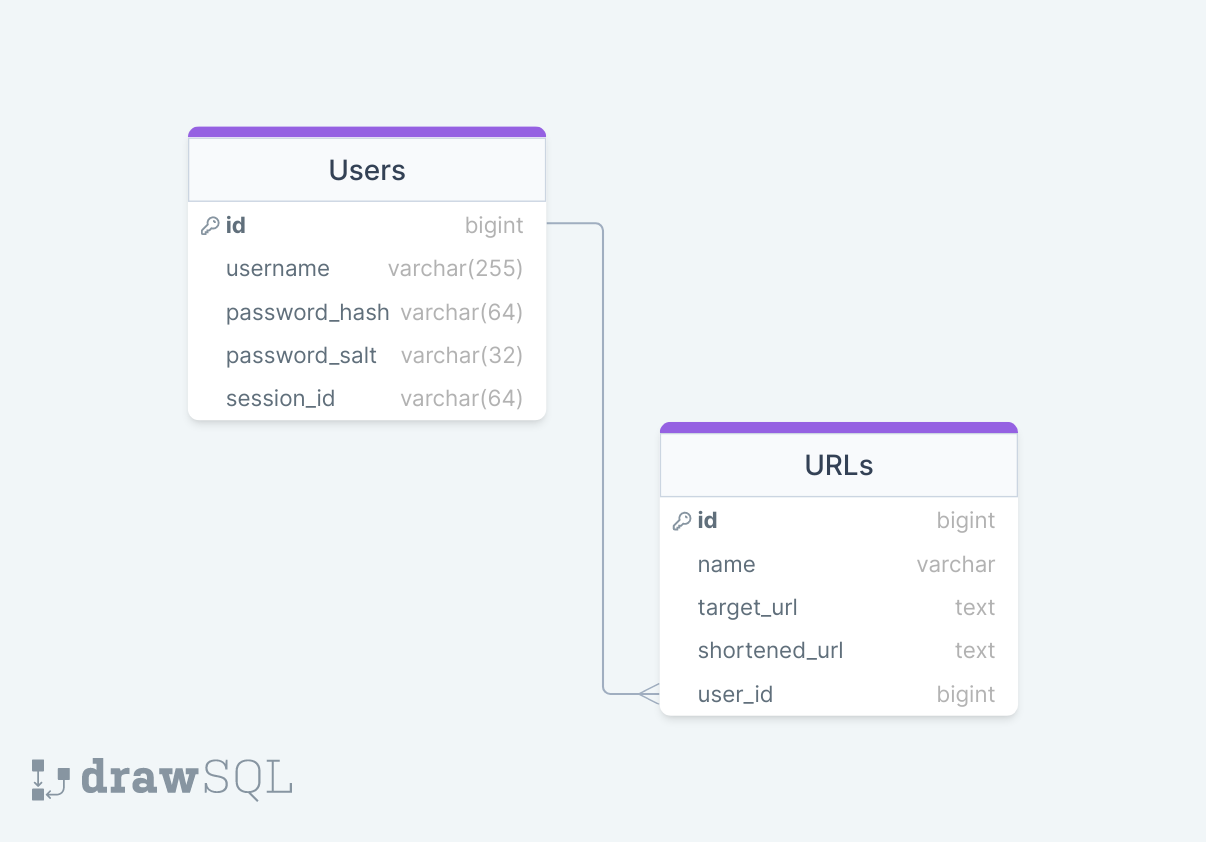
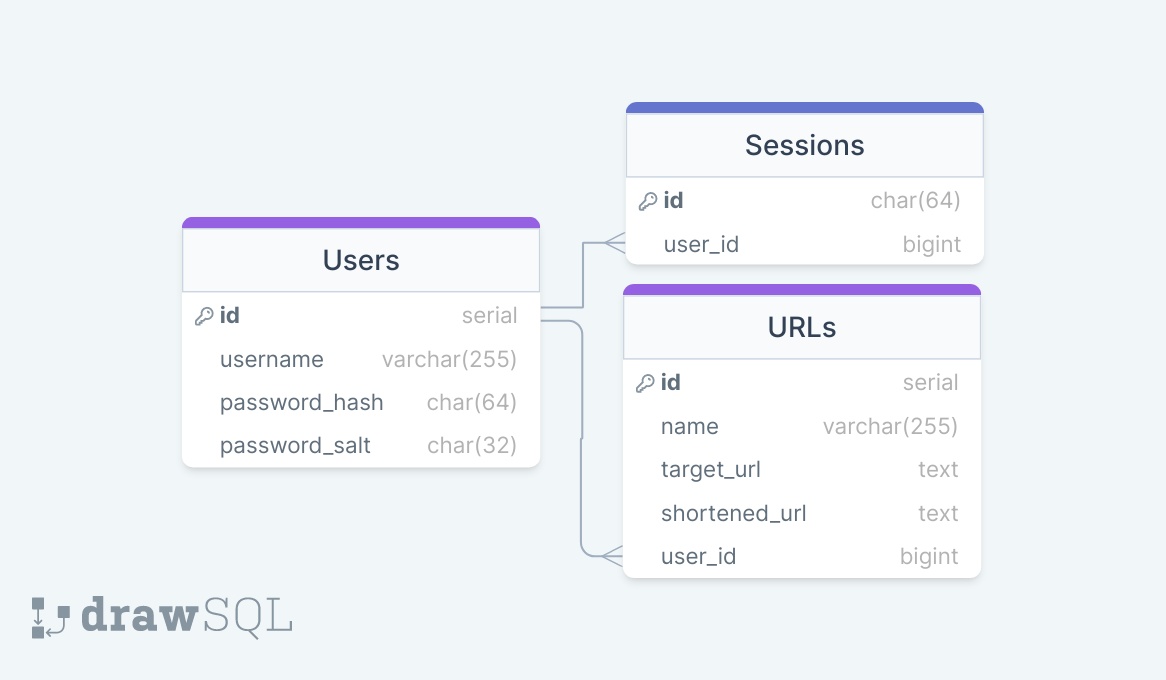
Users can now have multiple sessions at once.

diff --git a/src/routes.js b/src/routes.js
@@ -47,6 +47,10 @@ const registerUser = async (req, res) => {
     // Inserts the user data into the database'
     query_options = [req.body.username, password_hash, salt]
     database_response = await database_client.query("INSERT INTO users (username, password_hash, password_salt) VALUES ($1, $2, $3) RETURNING *;", query_options)
+    if (database_response.rowCount === 0) {
+        sendBadRequest(req, res, "Unable to register account.")
+        return
+    }
 
     // Logs the new user in
     loginUser(req, res)
@@ -80,9 +84,22 @@ const loginUser = async (req, res) => {
         session_id += Math.round(Math.random() * 255).toString(16).padStart(2, "0")
     }
 
+    // Get's the user's id
+    query_options = [req.body.username]
+    database_response = await database_client.query("SELECT id FROM users WHERE username = $1;", query_options)
+    if (database_response.rowCount === 0) {
+        sendBadRequest(req, res, "Credentials are invalid.")
+        return
+    }
+    const user_id = database_response.rows[0].id
+
     // Updates the user's session id in the database
-    query_options = [session_id, req.body.username]
-    database_response = await database_client.query("UPDATE users SET session_id = $1 WHERE username = $2 RETURNING *;", query_options)
+    query_options = [session_id, user_id]
+    database_response = await database_client.query("INSERT INTO sessions (id, user_id) VALUES ($1, $2) RETURNING *;", query_options)
+    if (database_response.rowCount === 0) {
+        sendBadRequest(req, res, "Unable to create session.")
+        return
+    }
 
     // Sets the cookie to be the session id
     const cookie_options = {
@@ -92,8 +109,8 @@ const loginUser = async (req, res) => {
     }
     res.cookie("session_id", session_id, cookie_options)
 
-    // Sends nothing right now
-    res.json([])
+    // Sends success
+    res.json({ message: "Success" })
 }
 
 // Whenever this route is called, logs out a user
@@ -105,18 +122,9 @@ const logoutUser = async (req, res) => {
         return
     }
 
-    // Get's the current user's id
-    let query_options = [req.cookies.session_id]
-    let database_response = await database_client.query("SELECT id FROM users WHERE session_id = $1;", query_options)
-    if (database_response.rowCount === 0) {
-        sendBadRequest(req, res, "Invalid session id.")
-        return
-    }
-    const user_id = database_response.rows[0].id
-
     // Removes the user's session id
-    query_options = [user_id]
-    database_response = await database_client.query("UPDATE users SET session_id = null WHERE id = $1;", query_options)
+    query_options = [req.cookies.session_id]
+    database_response = await database_client.query("DELETE FROM sessions WHERE id = $1;", query_options)
 
     // Clears the session id cookie
     res.clearCookie("session_id")
@@ -136,12 +144,12 @@ const createShortenedURL = async (req, res) => {
 
     // Get's the current user's id
     let query_options = [req.cookies.session_id]
-    let database_response = await database_client.query("SELECT id FROM users WHERE session_id = $1;", query_options)
+    let database_response = await database_client.query("SELECT user_id FROM sessions WHERE id = $1;", query_options)
     if (database_response.rowCount === 0) {
         sendBadRequest(req, res, "Invalid session id.")
         return
     }
-    const user_id = database_response.rows[0].id
+    const user_id = database_response.rows[0].user_id
 
     // Generates the shortened URL
     database_response = await database_client.query("SELECT TO_HEX(nextval('shortened_url_sequence'));")
@@ -183,12 +191,12 @@ const readURLs = async (req, res) => {
 
     // Get's the current user's id
     let query_options = [req.cookies.session_id]
-    let database_response = await database_client.query("SELECT id FROM users WHERE session_id = $1;", query_options)
+    let database_response = await database_client.query("SELECT user_id FROM sessions WHERE id = $1;", query_options)
     if (database_response.rowCount === 0) {
         sendBadRequest(req, res, "Invalid session id.")
         return
     }
-    const user_id = database_response.rows[0].id
+    const user_id = database_response.rows[0].user_id
 
     // Performs the query and returns the results to the client
     query_options = [user_id]
@@ -207,12 +215,12 @@ const readURL = async (req, res) => {
 
     // Get's the current user's id
     let query_options = [req.cookies.session_id]
-    let database_response = await database_client.query("SELECT id FROM users WHERE session_id = $1;", query_options)
+    let database_response = await database_client.query("SELECT user_id FROM sessions WHERE id = $1;", query_options)
     if (database_response.rowCount === 0) {
         sendBadRequest(req, res, "Invalid session id.")
         return
     }
-    const user_id = database_response.rows[0].id
+    const user_id = database_response.rows[0].user_id
 
     // Verifies the id is a valid integer
     const idIntegerValue = parseInt(req.params.id)
@@ -223,8 +231,8 @@ const readURL = async (req, res) => {
     req.params.id = idIntegerValue
 
     // Performs the query and returns the results to the client
-    query_options = [req.params.id, user_id]
-    database_response = await database_client.query("SELECT * FROM urls WHERE id = $1 AND user_id = $2;", query_options)
+    query_options = [req.params.id]
+    database_response = await database_client.query("SELECT * FROM urls WHERE id = $1;", query_options)
     res.json(database_response.rows)
 }
 
@@ -239,18 +247,18 @@ const updateURL = async (req, res) => {
 
     // Get's the current user's id
     let query_options = [req.cookies.session_id]
-    let database_response = await database_client.query("SELECT id FROM users WHERE session_id = $1;", query_options)
+    let database_response = await database_client.query("SELECT user_id FROM sessions WHERE id = $1;", query_options)
     if (database_response.rowCount === 0) {
         sendBadRequest(req, res, "Invalid session id.")
         return
     }
-    const user_id = database_response.rows[0].id
+    const user_id = database_response.rows[0].user_id
 
     // Verifies the id is a valid integer
     if (typeof req.body.id !== "number") {
         const idIntegerValue = parseInt(req.body.id)
         if (isNaN(idIntegerValue) || idIntegerValue + "" !== req.body.id) {
-            sendBadRequest(req, res, "Non-integer value passed as id. -> " + typeof req.body.id + " -> " + req.body.id)
+            sendBadRequest(req, res, "Non-integer value passed as id.")
             return
         }
         req.body.id = idIntegerValue
@@ -276,8 +284,8 @@ const updateURL = async (req, res) => {
     }
 
     // Performs the query and returns the results to the client
-    query_options = [req.body.name, req.body.target_url, req.body.id, user_id]
-    database_response = await database_client.query("UPDATE urls SET name = $1, target_url = $2 WHERE id = $3 AND user_id = $4 RETURNING *;", query_options)
+    query_options = [req.body.name, req.body.target_url, req.body.id]
+    database_response = await database_client.query("UPDATE urls SET name = $1, target_url = $2 WHERE id = $3 RETURNING *;", query_options)
     res.json(database_response.rows[0])
 }
 
@@ -292,12 +300,12 @@ const deleteURL = async (req, res) => {
 
     // Get's the current user's id
     let query_options = [req.cookies.session_id]
-    let database_response = await database_client.query("SELECT id FROM users WHERE session_id = $1;", query_options)
+    let database_response = await database_client.query("SELECT user_id FROM sessions WHERE id = $1;", query_options)
     if (database_response.rowCount === 0) {
         sendBadRequest(req, res, "Invalid session id.")
         return
     }
-    const user_id = database_response.rows[0].id
+    const user_id = database_response.rows[0].user_id
 
     // Verifies the id is a valid integer
     if (typeof req.body.id !== "number") {
@@ -310,8 +318,8 @@ const deleteURL = async (req, res) => {
     }
 
     // Performs the query and returns the results to the client
-    query_options = [req.body.id, user_id]
-    database_response = await database_client.query("DELETE FROM urls WHERE id = $1 AND user_id = $2 RETURNING *;", query_options)
+    query_options = [req.body.id]
+    database_response = await database_client.query("DELETE FROM urls WHERE id = $1 RETURNING *;", query_options)
     res.json(database_response.rows[0])
 }
 
